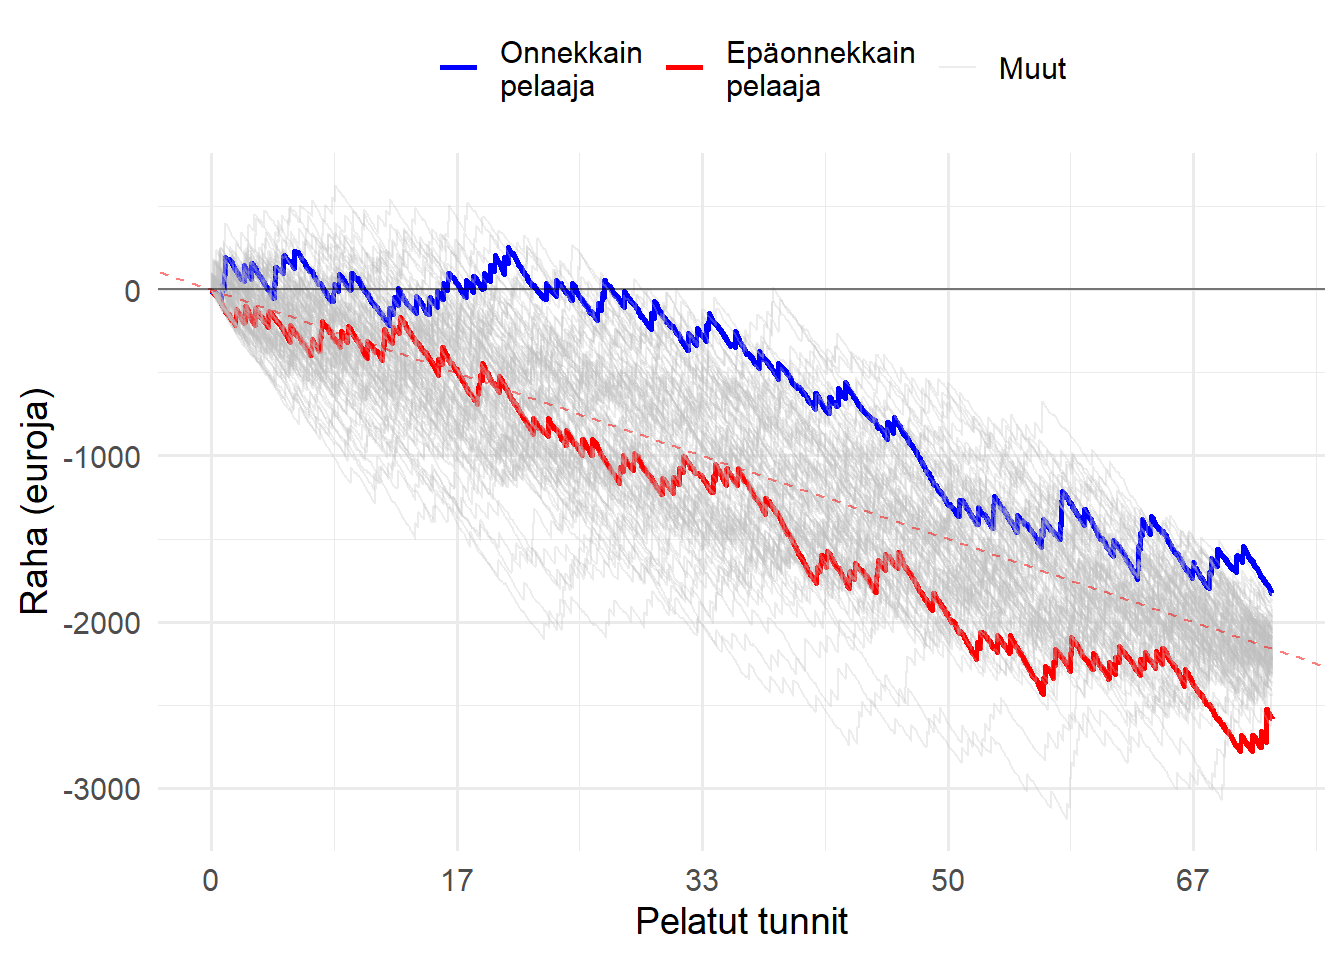
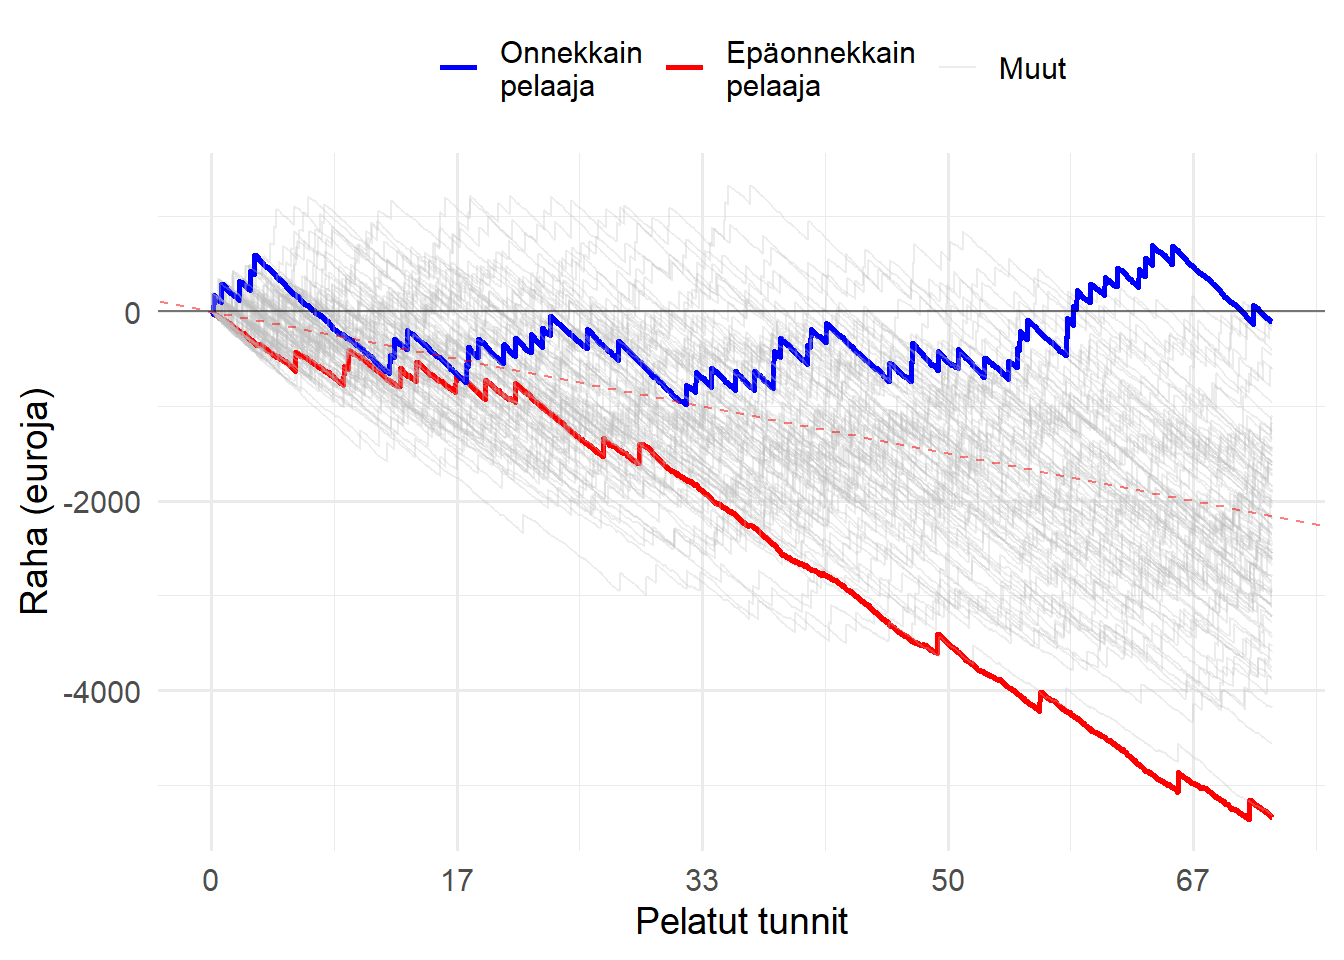
update

diff --git a/esimerkki_veikkaukselle.html b/esimerkki_veikkaukselle.html
@@ -400,32 +400,37 @@ visualisointi</h1>
 </div>
 
 
-<p>Oletukset:</p>
+<p>Simulaatioiden oletukset:</p>
 <ul>
-<li>Simuloidun pelin palautusprosentti on 90% per panostuskierros</li>
-<li>Jokaisessa panostuskierroksessa 1 euron panos</li>
+<li>Pelin palautusprosentti on 90%</li>
+<li>Jokaisessa panostuskierroksessa on 1 euron panos</li>
 <li>Pelataan 5 panostuskierrosta minuutissa, eli pelin odotusarvo
 minuuttia kohden on -0.5 euroa (-50 senttiä)</li>
-<li>Keskihajonta on 4 (eli 8 kertaa suurempi kuin pelin odotusarvo)</li>
-<li>Simulaatiossa käytössä nk. truncated normal distribution, joka
-huomioi sen, että maksimihäviömäärä per minuutti on 5 euroa</li>
-<li>Korkeassa volatiliteetissa kerran tunnissa sattumanvaraisesti
-saadaan 100 euron voitto</li>
-<li>Keskitason volatiliteetissa kerran 20 minuutissa sattumanvaraisesti
-saadaan 30 euron voitto</li>
+<li>Minuuttikohtainen keskihajonta on 4, eli 8 kertaa suurempi kuin
+odotusarvo</li>
+<li>Simulaatiossa huomioidaan, että maksimihäviömäärä per minuutti on 5
+euroa</li>
+<li>Korkeassa volatiliteetissa saadaan lisäksi keskimäärin kerran
+kahdessa tunnissa (keskihajonta = 0.2) 200 euron voitto</li>
+<li>Keskitason volatiliteetissa saadaan lisäksi keskimäärin kerran 20
+minuutissa (keskihajonta = 0.2) 33 euron voitto</li>
 <li>Matalassa volatiliteetissa ei ole sattumanvaraisia isompia
 voittoja</li>
 <li>Korkean ja keskitason volatiliteetteihin liittyvät “ylimääräiset”
 voitot vähennetään tasaisesti muiden panostuskierrosten voitoista tai
-lisätään häviöihin siten, että odotusarvo pysyy kokoajan samana</li>
+lisätään häviöihin siten, että odotusarvo pysyy koko ajan samana</li>
 <li>Kuvissa havainnollistetaan “onnekkain” ja “epäonnekkain” pelaaja,
 millä viitataan simuloidun jakson jälkeiseen lopputilanteeseen eli
 siihen, kenellä on eniten ja kenellä vähiten rahaa</li>
-<li>HUOM! Kyseessä on hypoteettinen tilanne, jossa rahapelaamista on
-simuloitu osittain puutteellisella taustatiedolla. Todellisuudessa
-esimerkiksi Veikkauksen rahapelien hajonta voittojen ja häviöiden
-suhteen voi jonkin verran poiketa alla esitetyistä malleista</li>
+<li>Simulaatiot eivät välttämättä vastaa yksityiskohdiltaan esimerkiksi
+Veikkauksen tarjoamia pelejä</li>
 </ul>
+<p><b>TL;DR:</b></p>
+<p>Alla esitetään rahapelisimulaatioita. Mitä enemmän rahapelejä pelaa,
+sitä enemmän rahaa häviää. Jotkut harvat ja onnekkaat voivat jäädä
+pelistä lyhyellä aikavälillä voitolle, erityisesti jos pelissä in korkea
+volatiliteetti, mutta riittävän pitkällä aikavälillä kaikki lopulta
+häviävät.</p>
 <pre class="r"><code>library(tidyverse)
 library(gganimate)
 library(transformr)
@@ -448,8 +453,13 @@ volatility_simulator &lt;- function(minutes, ev, SD, players, topbottom=F, volat
     # High volatility: smaller frequent wins, larger rare wins (here set at 100 euros)
     if (volatility==&quot;high&quot;) {
       
-      # Total added EV due to volatility (100e once every 60 minutes)
-      total_added &lt;- (minutes/60)*100 
+      # Total added EV due to volatility (200e once every 60 minutes)
+      # OLD VERSION:
+      # total_added &lt;- (minutes/120)*200 
+      
+      # New 20.2. Randomly added amount (mean = minutes/120, SD = minutes/120*0.2). Thus, while &quot;high volatility&quot; means that players will get a 200e win on average once per 120 minutes, variance is introduced around that amount.
+      total_added &lt;- round(sample(abs(rnorm(100, minutes/120, (minutes/120)*0.2)), 1)*200)
+      total_added_theor &lt;- (minutes/120)*200
       
       # Truncate normal distribution at (-5, +Inf) since 5 euros is the maximum that can be lost. The EV of the post-truncated normal distribution has to be set to -0.5! Further add total_added/minutes to -5 since it will be later subtracted as a constant value from the winnings/losses. This is because the volatility-related additional winnings (high = 100 euros every 60 minutes, med = 30 euros every 20 minutes) otherwise inflate the expected value
     
@@ -458,24 +468,43 @@ volatility_simulator &lt;- function(minutes, ev, SD, players, topbottom=F, volat
       # OLD VERSION, allows losses to be below -5:
       # test &lt;- data.frame(x = rnorm(minutes, mean=ev, sd=SD)) 
       
-      test$x[sample(nrow(test), minutes/60)] &lt;- test$x[sample(nrow(test), minutes/60)] + 100 # randomly add 100 euros once every 60 minutes
-      test$x &lt;- test$x - total_added/minutes # evenly subtract the added EV above (i.e. minutes/60 * 100 euros)
+      # OLD VERSION:
+      #test$x[sample(nrow(test), minutes/120)] &lt;- test$x[sample(nrow(test), minutes/120)] + 200 # randomly add 200 euros once every 120 minutes
+      
+      #Update 20.2.: add the bonus of 200 randomly, with a mean number of minutes/120 (defined above)
+      test$x[sample(nrow(test), total_added/200)] &lt;- test$x[sample(nrow(test), total_added/200)] + 200
+      
+      test$x &lt;- test$x - total_added/minutes # evenly subtract the added EV above (i.e. minutes/120 * 200 euros)
+    
+      
     }
     
-    # Medium volatility: semi-small frequent wins, medium rare wins (30e every 20 minutes)
+    # Medium volatility: semi-small frequent wins, medium rare wins (33e every 20 minutes)
     else if (volatility == &quot;med&quot;) {
       
-      # Total added EV due to volatility (30e every 20 minutes)
-      total_added &lt;- (minutes/20)*30
+      # Total added EV due to volatility (33e every 20 minutes)
+      # OLD VERSION:
+      # total_added &lt;- (minutes/20)*33
       
-      # See explanation above.
+      # New 20.2. Randomly added amount, with a mean of minutes/20 and SD of minutes/20*0.2
+      total_added &lt;- round(sample(abs(rnorm(100, minutes/20, (minutes/20)*0.2)), 1)*33)
+      total_added_theor &lt;- (minutes/20)*33
+      
+      # See explanation above
       test &lt;- data.frame(x = rtruncnorm(minutes, -5+(total_added/minutes), Inf, mean=ev, sd=SD))
       
       #OLD VERSION, allows losses to be below -5:
       #test &lt;- data.frame(x = rnorm(minutes, mean=ev, sd=SD)) 
       
-      test$x[sample(nrow(test), minutes/20)] &lt;- test$x[sample(nrow(test), minutes/20)] + 30 # explained above
+      # OLD VERSION:
+      # test$x[sample(nrow(test), minutes/20)] &lt;- test$x[sample(nrow(test), minutes/20)] + 33 # explained above
+      
+      #Update 20.2.: add the bonus of 200 randomly, with a mean number of minutes/120
+      test$x[sample(nrow(test), total_added/33)] &lt;- test$x[sample(nrow(test), total_added/33)] + 33
+      
       test$x &lt;- test$x - total_added/minutes # explained above
+      
+      
     }
     
     #Low volatility: medium frequent wins, no infrequent larger wins
@@ -483,10 +512,13 @@ volatility_simulator &lt;- function(minutes, ev, SD, players, topbottom=F, volat
       
       # Total added EV due to volatility (nothing)
       total_added &lt;- 0
+      total_added_theor &lt;- 0
       test &lt;- rtruncnorm(minutes, -5, Inf, mean=ev, sd=SD) # could spell out -5+(total_added/minutes) for clarity, which is -5 + 0/minutes = 0
       
       #OLD VERSION, allows losses to be below -5:
       #test &lt;- data.frame(x = rnorm(minutes, mean=ev, sd=SD)) 
+      
+      
     }
     
     test &lt;- data.frame(run = test)
@@ -494,7 +526,7 @@ volatility_simulator &lt;- function(minutes, ev, SD, players, topbottom=F, volat
     simulations &lt;- cbind(simulations, cumsum(test))
     simulations$nrow &lt;- NULL
   }
-
+  
   max_value &lt;- which(tail(simulations, 1) == max(tail(simulations, 1))) # Among the last row, which column has the highest value
   min_value &lt;- which(tail(simulations, 1) == min(tail(simulations, 1))) # Among the last row, which column has the lowest value
   
@@ -513,7 +545,7 @@ volatility_simulator &lt;- function(minutes, ev, SD, players, topbottom=F, volat
     # The ev-argument should be such that the post-truncated mean of the distribution is -0.5 (which is defined as per the assumption of 90% return to player)
     # Old version: slope = ev
     
-    geom_abline(intercept = 0, slope = truncatedmean(ev, SD, -5+(total_added/minutes), Inf), linetype=&quot;dashed&quot;, size=0.5, color=&quot;red&quot;, alpha=.5) +
+    geom_abline(intercept = 0, slope = truncatedmean(ev, SD, -5+(total_added_theor/minutes), Inf), linetype=&quot;dashed&quot;, size=0.5, color=&quot;red&quot;, alpha=.5) +
     geom_hline(yintercept = 0, size=0.5, alpha=.5) +
     xlab(&quot;Pelatut tunnit&quot;) + ylab(&quot;Raha (euroja)&quot;) +
     theme_minimal(base_size=14) +
@@ -529,7 +561,7 @@ volatility_simulator &lt;- function(minutes, ev, SD, players, topbottom=F, volat
     geom_line(aes(colour = key)) +
     
     #Old version: slope = ev
-    geom_abline(intercept = 0, slope = truncatedmean(ev, SD, -5+(total_added/minutes), Inf), linetype=&quot;dashed&quot;, size=0.5, color=&quot;red&quot;, alpha=.5) +
+    geom_abline(intercept = 0, slope = truncatedmean(ev, SD, -5+(total_added_theor/minutes), Inf), linetype=&quot;dashed&quot;, size=0.5, color=&quot;red&quot;, alpha=.5) +
     geom_hline(yintercept = 0, size=0.5, alpha=.5) +
     xlab(&quot;Pelatut tunnit&quot;) + ylab(&quot;Raha (euroja)&quot;) +
     theme_minimal(base_size=14) +
@@ -546,7 +578,7 @@ volatility_simulator &lt;- function(minutes, ev, SD, players, topbottom=F, volat
     geom_line(aes(colour = maxmin, alpha = maxmin, size = maxmin)) +
     
     #Old version: slope = ev
-    geom_abline(intercept = 0, slope = truncatedmean(ev, SD, -5+(total_added/minutes), Inf), linetype=&quot;dashed&quot;, size=0.5, color=&quot;red&quot;, alpha=.5) +
+    geom_abline(intercept = 0, slope = truncatedmean(ev, SD, -5+(total_added_theor/minutes), Inf), linetype=&quot;dashed&quot;, size=0.5, color=&quot;red&quot;, alpha=.5) +
     geom_hline(yintercept = 0, size=0.5, alpha=.5) +
     xlab(&quot;Pelatut tunnit&quot;) + ylab(&quot;Raha (euroja)&quot;) +
     scale_color_manual(values=c(&quot;blue&quot;, &quot;red&quot;, &quot;grey&quot;)) +
@@ -569,15 +601,15 @@ volatility_simulator &lt;- function(minutes, ev, SD, players, topbottom=F, volat
 trunc_helper &lt;- function(volatility, minutes, sd) {
   
   if (volatility == &quot;low&quot;) {
-    total_added = 0
+    total_added_theor = 0
   }
   
   else if (volatility == &quot;med&quot;) {
-    total_added = minutes/20*30
+    total_added_theor = minutes/20*33
   }
   
   else {
-    total_added = minutes/60*100
+    total_added_theor = minutes/120*200
   }
 
   trunc_sims &lt;- c()
@@ -586,7 +618,7 @@ trunc_helper &lt;- function(volatility, minutes, sd) {
   # Iterate from -0.00001 through to -50, and see which value gives a post-truncated mean of -0.5. NOTE: This function breaks if the standard deviation of the original simulation is set too high (no warning message is displayed, but the dashed red EV-line will not be correct). In that case, truncating at -5 and not allowing for a large enough pre-truncated mean will not result in low enough post-truncated mean.
   
   for (i in seq(-0.001, -50, by=-0.001)) {
-    trunc_value &lt;- truncatedmean(i, sd, -5+(total_added/minutes), Inf)
+    trunc_value &lt;- truncatedmean(i, sd, -5+(total_added_theor/minutes), Inf)
     difference &lt;- trunc_value - (-0.5)
     trunc_sims[i*(-1000)] &lt;- difference # *(-1000) must reflect the &quot;by&quot; -argument (todo: write a better code later)
     trunc_iter[i*(-1000)] &lt;- i
